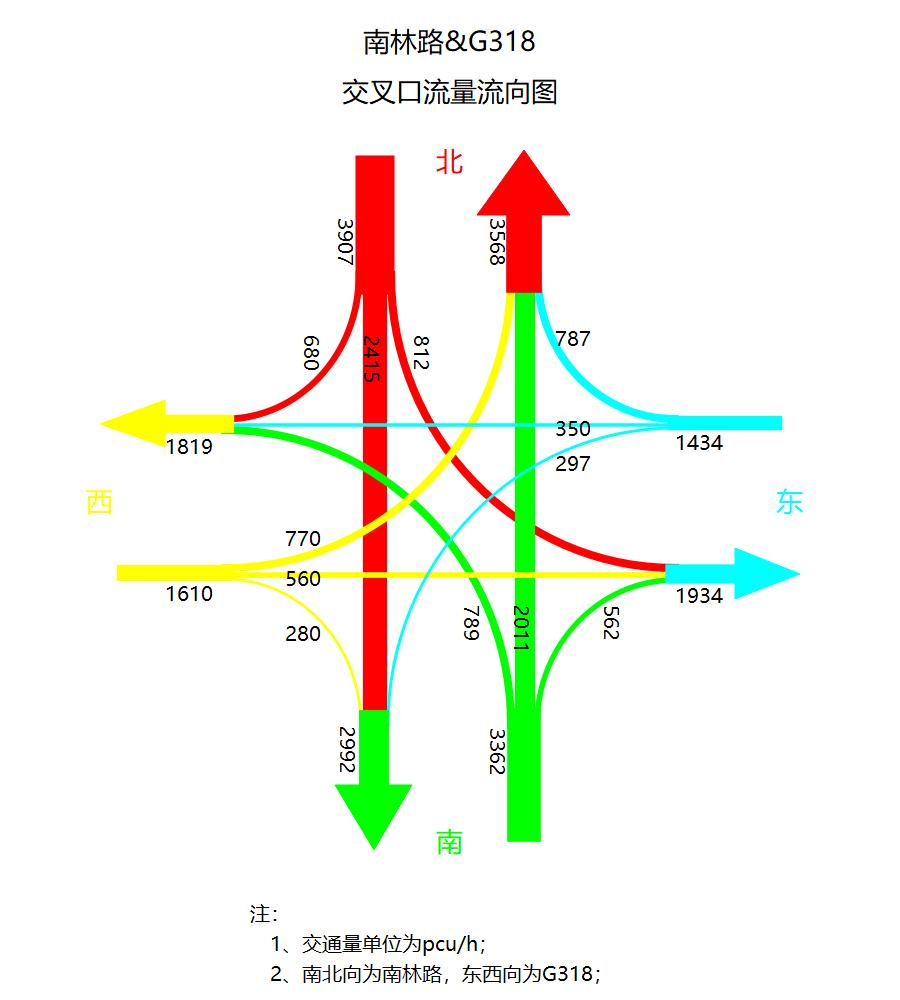
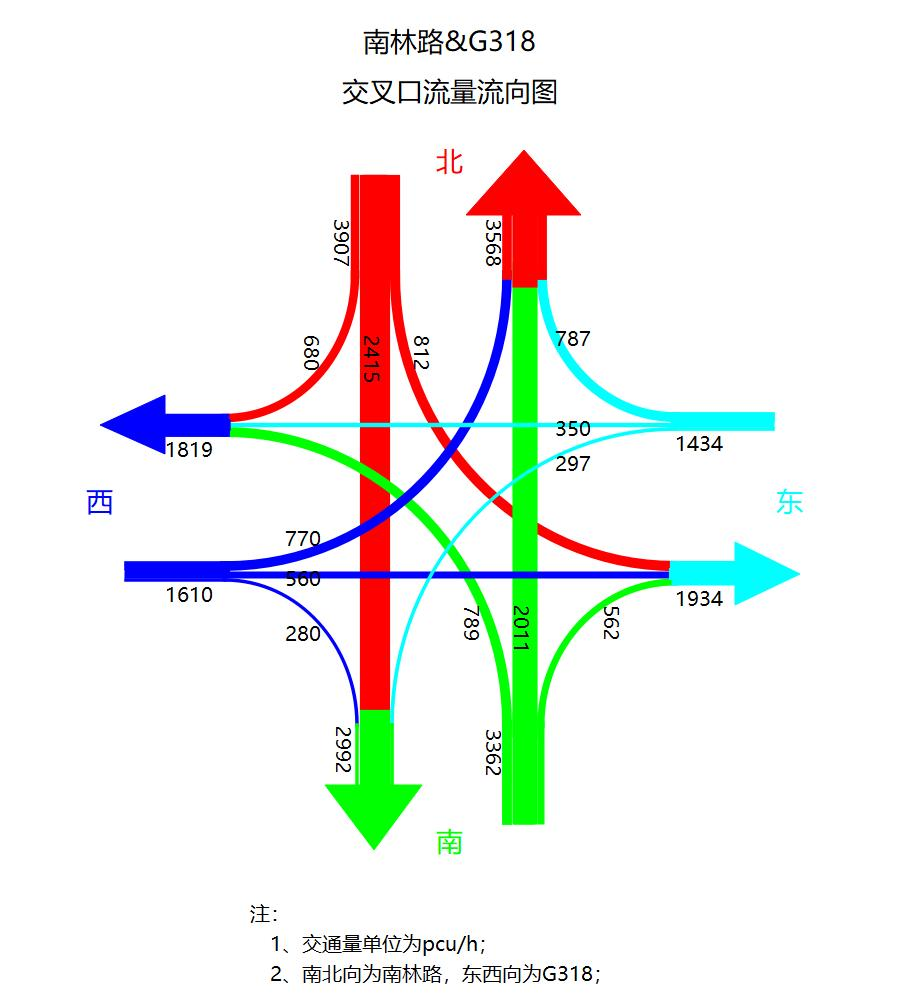
上虞出差修改

diff --git a/ITF.py b/ITF.py
@@ -75,12 +75,12 @@ class ITF(QWidget, Ui_Form):
         self.frame_3.setAutoFillBackground(True)
         self.frame_3.setPalette(QPalette(Qt.cyan))
         self.frame_4.setAutoFillBackground(True)
-        self.frame_4.setPalette(QPalette(Qt.yellow))
+        self.frame_4.setPalette(QPalette(Qt.blue))
         self.radioButton_aidaroe.setChecked(True)
         self.radioButton_zdk.clicked.connect(self.get_JA_process)
-        self.spinBox.setRange(20, 100)
+        self.spinBox.setRange(20, 200)
         self.spinBox.setSingleStep(1)
-        self.spinBox.setValue(100)
+        self.spinBox.setValue(80)
         self.pushButton_para_reset2.clicked.connect(self.reset_para2)
         self.pushButton_changeC1.clicked.connect(self.choose_c1)
         self.pushButton_changeC2.clicked.connect(self.choose_c2)
@@ -155,7 +155,7 @@ class ITF(QWidget, Ui_Form):
         self.pushButton_draw_ps.clicked.connect(self.drawpics_batch)
         self.color_N=Qt.red
         self.color_S=Qt.green
-        self.color_W=Qt.yellow
+        self.color_W=Qt.blue
         self.color_E=Qt.cyan
         # 整个窗口操作之关闭窗口
         self.pushButton_close_form.clicked.connect(
@@ -218,7 +218,7 @@ class ITF(QWidget, Ui_Form):
         self.frame_2.setPalette(QPalette(self.color_S))
         # return color_S
     def choose_c4(self):
-        self.color_W = QColorDialog.getColor(Qt.yellow)
+        self.color_W = QColorDialog.getColor(Qt.blue)
         self.frame_4.setPalette(QPalette(self.color_W))
     def choose_c3(self):
         self.color_E = QColorDialog.getColor(Qt.cyan)
@@ -338,18 +338,24 @@ class ITF(QWidget, Ui_Form):
             pen1 = QPen(self.color_N,NI_Z_width,Qt.SolidLine)
             painter.setPen(pen1)
             NS_Z=QLine(NPI_Z,SPO_Z) # 北向南直行直线
+            WBI_Z=QLine(NPI_Z,QPoint(NPI_Z.x(),275-100+NI_Z_width/2))
+            painter.drawLine(WBI_Z)
             painter.drawLine(NS_Z) # 抗锯齿，去除绘图锯齿
         # 北进口道右转
         if NI_R_width>0:
             pen1 = QPen(self.color_N,NI_R_width,Qt.SolidLine)
             painter.setPen(pen1)
             rect = QRect(NPI_R.x()-2*abs(NPI_R.x()-WPO_R.x()),NPI_R.y()-abs(NPI_R.y()-WPO_R.y()),2*abs(NPI_R.x()-WPO_R.x()),2*abs(NPI_R.y()-WPO_R.y()))
+            WBI_R=QLine(NPI_R,QPoint(NPI_R.x(),275-100+NI_R_width/2))
+            painter.drawLine(WBI_R)
             painter.drawArc(rect,270*16, 90*16)
         # 北进口道左转
         if NI_L_width>0:
             pen1 = QPen(self.color_N,NI_L_width,Qt.SolidLine)
             painter.setPen(pen1)
             rect = QRect(NPI_L.x(),NPI_L.y()-abs(NPI_L.y()-EPO_L.y()),2*abs(NPI_L.x()-EPO_L.x()),2*abs(NPI_L.y()-EPO_L.y()))
+            WBI_L=QLine(NPI_L,QPoint(NPI_L.x(),275-100+NI_L_width/2))
+            painter.drawLine(WBI_L)
             painter.drawArc(rect,180*16, 90*16)
         # # 画进口道尾部
         # pen1 = QPen(self.color_N,NI_Z_width,Qt.SolidLine)
@@ -367,10 +373,10 @@ class ITF(QWidget, Ui_Form):
 
         # # 画进口道尾部——————方法2
         if NI_total_width>0:
-            pen1 = QPen(self.color_N,NI_total_width,Qt.SolidLine)
+            pen1 = QPen(self.color_N,NI_total_width/2,Qt.SolidLine)
             painter.setPen(pen1)
             NPI1=QPoint((NPI_L.x()+NPI_R.x())/2,(NPI_L.y()+NPI_R.y())/2)
-            NPI2=QPoint((NPI_L.x()+NPI_R.x())/2,(NPI_L.y()+NPI_R.y())/2-100)
+            NPI2=QPoint((NPI_L.x()+NPI_R.x())/2,(NPI_L.y()+NPI_R.y())/2-100+NI_total_width/4)
             NI_L=QLine(NPI1,NPI2)
             painter.drawLine(NI_L)
         
@@ -389,12 +395,16 @@ class ITF(QWidget, Ui_Form):
             pen1 = QPen(self.color_S,SI_R_width,Qt.SolidLine)
             painter.setPen(pen1)
             rect = QRect(SPI_R.x(),SPI_R.y()-abs(SPI_R.y()-EPO_R.y()),2*abs(SPI_R.x()-EPO_R.x()),2*abs(SPI_R.y()-EPO_R.y()))
+            WBI_R=QLine(SPI_R,QPoint(SPI_R.x(),725+100-SI_R_width/2))
+            painter.drawLine(WBI_R)
             painter.drawArc(rect,90*16, 90*16)
         # 南进口道左转
         if SI_L_width>0:
             pen1 = QPen(self.color_S,SI_L_width,Qt.SolidLine)
             painter.setPen(pen1)
             rect = QRect(SPI_L.x()-2*abs(SPI_L.x()-WPO_L.x()),SPI_L.y()-abs(SPI_L.y()-WPO_L.y()),2*abs(SPI_L.x()-WPO_L.x()),2*abs(SPI_L.y()-WPO_L.y()))
+            WBI_L=QLine(SPI_L,QPoint(SPI_L.x(),725+100-SI_L_width/2))
+            painter.drawLine(WBI_L)
             painter.drawArc(rect,0, 90*16)
 
         # # 画进口道尾部
@@ -410,14 +420,14 @@ class ITF(QWidget, Ui_Form):
         # painter.setPen(pen1)
         # SW_L=QLine(QPoint(SPI_L.x(),SPI_L.y()),QPoint(SPI_L.x(),SPI_L.y()+100-SI_L_width/2))
         # painter.drawLine(SW_L)
-        # # 画进口道尾部——————方法2
-        # if SI_total_width>0:
-        #     pen1 = QPen(self.color_S,SI_total_width,Qt.SolidLine)
-        #     painter.setPen(pen1)
-        #     SPI1=QPoint((SPI_L.x()+SPI_R.x())/2,(SPI_L.y()+SPI_R.y())/2)
-        #     SPI2=QPoint((SPI_L.x()+SPI_R.x())/2,(SPI_L.y()+SPI_R.y())/2+100)
-        #     SI_L=QLine(SPI1,SPI2)
-        #     painter.drawLine(SI_L)
+        # 画进口道尾部——————方法2
+        if SI_total_width>0:
+            pen1 = QPen(self.color_S,SI_total_width/2,Qt.SolidLine)
+            painter.setPen(pen1)
+            SPI1=QPoint((SPI_L.x()+SPI_R.x())/2,(SPI_L.y()+SPI_R.y())/2)
+            SPI2=QPoint((SPI_L.x()+SPI_R.x())/2,(SPI_L.y()+SPI_R.y())/2+100-SI_total_width/4)
+            SI_L=QLine(SPI1,SPI2)
+            painter.drawLine(SI_L)
 
         
 #---------------------------------------------------------------------------------------------------------------------------------------------------------------------
@@ -427,18 +437,24 @@ class ITF(QWidget, Ui_Form):
             painter.setPen(pen1)
             # painter.drawLine(WPI_Z,EPO_Z)
             WE_Z=QLine(WPI_Z,EPO_Z)  # 西向东直行直线
+            WBI_Z=QLine(WPI_Z,QPoint(225-100+WI_Z_width/2,WPI_Z.y()))
+            painter.drawLine(WBI_Z)
             painter.drawLine(WE_Z)
         # 西进口道右转
         if WI_R_width>0:
             pen1 = QPen(self.color_W,WI_R_width,Qt.SolidLine)
             painter.setPen(pen1)
             rect = QRect(WPI_R.x()-abs(WPI_R.x()-SPO_R.x()),WPI_R.y(),2*abs(WPI_R.x()-SPO_R.x()),2*abs(WPI_R.y()-SPO_R.y()))
+            WBI_R=QLine(WPI_R,QPoint(225-100+WI_R_width/2,WPI_R.y()))
+            painter.drawLine(WBI_R)
             painter.drawArc(rect,0, 90*16)
         # 西进口道左转
         if WI_L_width>0:
             pen1 = QPen(self.color_W,WI_L_width,Qt.SolidLine)
             painter.setPen(pen1)
             rect = QRect(WPI_L.x()-abs(WPI_L.x()-NPO_L.x()),WPI_L.y()-2*abs(WPI_L.y()-NPO_L.y()),2*abs(WPI_L.x()-NPO_L.x()),2*abs(WPI_L.y()-NPO_L.y()))
+            WBI_L=QLine(WPI_L,QPoint(225-100+WI_L_width/2,WPI_L.y()))
+            painter.drawLine(WBI_L)
             painter.drawArc(rect,270*16, 90*16)
         # 画进口道尾部
         # pen1 = QPen(self.color_W,WI_Z_width,Qt.SolidLine)
@@ -455,10 +471,10 @@ class ITF(QWidget, Ui_Form):
         # painter.drawLine(WN_L)
         # 画进口道尾部——————方法2
         if WI_total_width>0:
-            pen1 = QPen(self.color_W,WI_total_width,Qt.SolidLine)
+            pen1 = QPen(self.color_W,WI_total_width/2,Qt.SolidLine)
             painter.setPen(pen1)
             WPI1=QPoint((WPI_L.x()+WPI_R.x())/2,(WPI_L.y()+WPI_R.y())/2)
-            WPI2=QPoint((WPI_L.x()+WPI_R.x())/2-100,(WPI_L.y()+WPI_R.y())/2)
+            WPI2=QPoint((WPI_L.x()+WPI_R.x())/2-100+WI_total_width/4,(WPI_L.y()+WPI_R.y())/2)
             WI_L=QLine(WPI1,WPI2)
             painter.drawLine(WI_L)
         
@@ -470,18 +486,24 @@ class ITF(QWidget, Ui_Form):
             painter.setPen(pen1)
             # painter.drawLine(EPI_Z,WPO_Z)
             EW_Z=QLine(EPI_Z,WPO_Z)  # 东向西直行直线
+            WBI_Z=QLine(EPI_Z,QPoint(675+100-EI_Z_width/2,EPI_Z.y()))
+            painter.drawLine(WBI_Z)
             painter.drawLine(EW_Z)
         # 东进口道右转
         if EI_R_width>0:
             pen1 = QPen(self.color_E,EI_R_width,Qt.SolidLine)
             painter.setPen(pen1)
             rect = QRect(EPI_R.x()-abs(EPI_R.x()-NPO_R.x()),EPI_R.y()-2*abs(EPI_R.y()-NPO_R.y()),2*abs(EPI_R.x()-NPO_R.x()),2*abs(EPI_R.y()-NPO_R.y()))
+            WBI_R=QLine(EPI_R,QPoint(675+100-EI_R_width/2,EPI_R.y()))
+            painter.drawLine(WBI_R)
             painter.drawArc(rect,180*16, 90*16)
         # 东进口道左转
         if EI_L_width>0:
             pen1 = QPen(self.color_E,EI_L_width,Qt.SolidLine)
             painter.setPen(pen1)
             rect = QRect(EPI_L.x()-abs(EPI_L.x()-SPO_L.x()),EPI_L.y(),2*abs(EPI_L.x()-SPO_L.x()),2*abs(EPI_L.y()-SPO_L.y()))
+            WBI_L=QLine(EPI_L,QPoint(675+100-EI_L_width/2,EPI_L.y()))
+            painter.drawLine(WBI_L)
             painter.drawArc(rect,90*16, 90*16)
 
         # # 画进口道尾部
@@ -500,10 +522,10 @@ class ITF(QWidget, Ui_Form):
 
         # # 画进口道尾部——————方法2
         if EI_total_width>0:
-            pen1 = QPen(self.color_E,EI_total_width,Qt.SolidLine)
+            pen1 = QPen(self.color_E,EI_total_width/2,Qt.SolidLine)
             painter.setPen(pen1)
             EPI1=QPoint((EPI_L.x()+EPI_R.x())/2,(EPI_L.y()+EPI_R.y())/2)
-            EPI2=QPoint((EPI_L.x()+EPI_R.x())/2+100,(EPI_L.y()+EPI_R.y())/2)
+            EPI2=QPoint((EPI_L.x()+EPI_R.x())/2+100-EI_total_width/4,(EPI_L.y()+EPI_R.y())/2)
             EI_L=QLine(EPI1,EPI2)
             painter.drawLine(EI_L)
         
@@ -511,8 +533,24 @@ class ITF(QWidget, Ui_Form):
 # 画四个出口道的
         # 北出口道
         # 画出口道尾部
+        
+        if WI_L_width>0:
+            pen1 = QPen(self.color_N,WI_L_width,Qt.SolidLine)
+            painter.setPen(pen1)
+            WBO_L=QLine(NPO_L,QPoint(NPO_L.x(),275-60))
+            painter.drawLine(WBO_L)
+        if SI_Z_width>0:
+            pen1 = QPen(self.color_N,SI_Z_width,Qt.SolidLine)
+            painter.setPen(pen1)
+            WBO_Z=QLine(NPO_Z,QPoint(NPO_Z.x(),275-60))
+            painter.drawLine(WBO_Z)
+        if EI_R_width>0:
+            pen1 = QPen(self.color_N,EI_R_width,Qt.SolidLine)
+            painter.setPen(pen1)
+            WBO_R=QLine(NPO_R,QPoint(NPO_R.x(),275-60))
+            painter.drawLine(WBO_R)
         if NO_total_width>0:
-            pen1 = QPen(self.color_N,NO_total_width,Qt.SolidLine)
+            pen1 = QPen(self.color_N,NO_total_width/1.5,Qt.SolidLine)
             painter.setPen(pen1)
             NPO1=QPoint((NPO_L.x()+NPO_R.x())/2,(NPO_L.y()+NPO_R.y())/2)
             NPO2=QPoint((NPO_L.x()+NPO_R.x())/2,(NPO_L.y()+NPO_R.y())/2-60)
@@ -528,14 +566,29 @@ class ITF(QWidget, Ui_Form):
         
         # 南出口道
         # 画出口道尾部
+        
+        if EI_L_width>0:
+            pen1 = QPen(self.color_S,EI_L_width,Qt.SolidLine)
+            painter.setPen(pen1)
+            WBO_L=QLine(SPO_L,QPoint(SPO_L.x(),725+60))
+            painter.drawLine(WBO_L)
+        if NI_Z_width>0:
+            pen1 = QPen(self.color_S,NI_Z_width,Qt.SolidLine)
+            painter.setPen(pen1)
+            WBO_Z=QLine(SPO_Z,QPoint(SPO_Z.x(),725+60))
+            painter.drawLine(WBO_Z)
+        if WI_R_width>0:
+            pen1 = QPen(self.color_S,WI_R_width,Qt.SolidLine)
+            painter.setPen(pen1)
+            WBO_R=QLine(SPO_R,QPoint(SPO_R.x(),725+60))
+            painter.drawLine(WBO_R)
         if SO_total_width>0:
-            pen1 = QPen(self.color_S,SO_total_width,Qt.SolidLine)
+            pen1 = QPen(self.color_S,SO_total_width/1.5,Qt.SolidLine)
             painter.setPen(pen1)
             SPO1=QPoint((SPO_L.x()+SPO_R.x())/2,(SPO_L.y()+SPO_R.y())/2)
             SPO2=QPoint((SPO_L.x()+SPO_R.x())/2,(SPO_L.y()+SPO_R.y())/2+60)
             SO_L=QLine(SPO1,SPO2)
             painter.drawLine(SO_L)
-
             # # 画箭头
             S_arrowPoints=[QPoint(SPO1.x()-1.3*SO_total_width,SPO1.y()+60),QPoint(SPO1.x()+1.3*SO_total_width,SPO1.y()+60),QPoint(SPO1.x(),SPO1.y()+125)] # 出口道箭头的点集合
             pen1 = QPen(self.color_S,0,Qt.SolidLine)
@@ -546,8 +599,24 @@ class ITF(QWidget, Ui_Form):
 
         # 西出口道
         # 画出口道尾部
+        
+        if SI_L_width>0:
+            pen1 = QPen(self.color_W,SI_L_width,Qt.SolidLine)
+            painter.setPen(pen1)
+            WBO_L=QLine(WPO_L,QPoint(225-60,WPO_L.y()))
+            painter.drawLine(WBO_L)
+        if EI_Z_width>0:
+            pen1 = QPen(self.color_W,EI_Z_width,Qt.SolidLine)
+            painter.setPen(pen1)
+            WBO_Z=QLine(WPO_Z,QPoint(225-60,WPO_Z.y()))
+            painter.drawLine(WBO_Z)
+        if NI_R_width>0:
+            pen1 = QPen(self.color_W,NI_R_width,Qt.SolidLine)
+            painter.setPen(pen1)
+            WBO_R=QLine(WPO_R,QPoint(225-60,WPO_R.y()))
+            painter.drawLine(WBO_R)
         if WO_total_width>0:
-            pen1 = QPen(self.color_W,WO_total_width,Qt.SolidLine)
+            pen1 = QPen(self.color_W,WO_total_width/1.5,Qt.SolidLine)
             painter.setPen(pen1)
             WPO1=QPoint((WPO_R.x()+WPI_R.x())/2,(WPO_L.y()+WPO_R.y())/2)
             WPO2=QPoint((WPO_R.x()+WPI_R.x())/2-60,(WPO_L.y()+WPO_R.y())/2)
@@ -563,18 +632,29 @@ class ITF(QWidget, Ui_Form):
 
         # 东出口道
         # 画出口道尾部
-        if EO_total_width>0:
-            pen1 = QPen(self.color_E,EO_total_width,Qt.SolidLine)
-            painter.setPen(pen1)
-            EPO1=QPoint((EPO_L.x()+EPO_R.x())/2,(EPO_L.y()+EPO_R.y())/2)
-            EPO2=QPoint((EPO_L.x()+EPO_R.x())/2+60,(EPO_L.y()+EPO_R.y())/2)
-            # EO_L=QLine(EPO1,EPO2)
-            # painter.drawLine(EO_L)
+        
         if NI_L_width>0:
             pen1 = QPen(self.color_E,NI_L_width,Qt.SolidLine)
             painter.setPen(pen1)
             WBO_L=QLine(EPO_L,QPoint(675+60,EPO_L.y()))
             painter.drawLine(WBO_L)
+        if WI_Z_width>0:
+            pen1 = QPen(self.color_E,WI_Z_width,Qt.SolidLine)
+            painter.setPen(pen1)
+            WBO_Z=QLine(EPO_Z,QPoint(675+60,EPO_Z.y()))
+            painter.drawLine(WBO_Z)
+        if SI_R_width>0:
+            pen1 = QPen(self.color_E,SI_R_width,Qt.SolidLine)
+            painter.setPen(pen1)
+            WBO_R=QLine(EPO_R,QPoint(675+60,EPO_R.y()))
+            painter.drawLine(WBO_R)
+        if EO_total_width>0:
+            pen1 = QPen(self.color_E,EO_total_width/1.5,Qt.SolidLine)
+            painter.setPen(pen1)
+            EPO1=QPoint((EPO_L.x()+EPO_R.x())/2,(EPO_L.y()+EPO_R.y())/2)
+            EPO2=QPoint((EPO_L.x()+EPO_R.x())/2+60,(EPO_L.y()+EPO_R.y())/2)
+            EO_L=QLine(EPO1,EPO2)
+            painter.drawLine(EO_L)
             # # 画箭头
             E_arrowPoints=[QPoint(EPO1.x()+60,EPO1.y()-1.3*EO_total_width),QPoint(EPO1.x()+60,EPO1.y()+1.3*EO_total_width),QPoint(EPO1.x()+125,EPO1.y())] # 出口道箭头的点集合
             pen1 = QPen(self.color_E,0,Qt.SolidLine)
